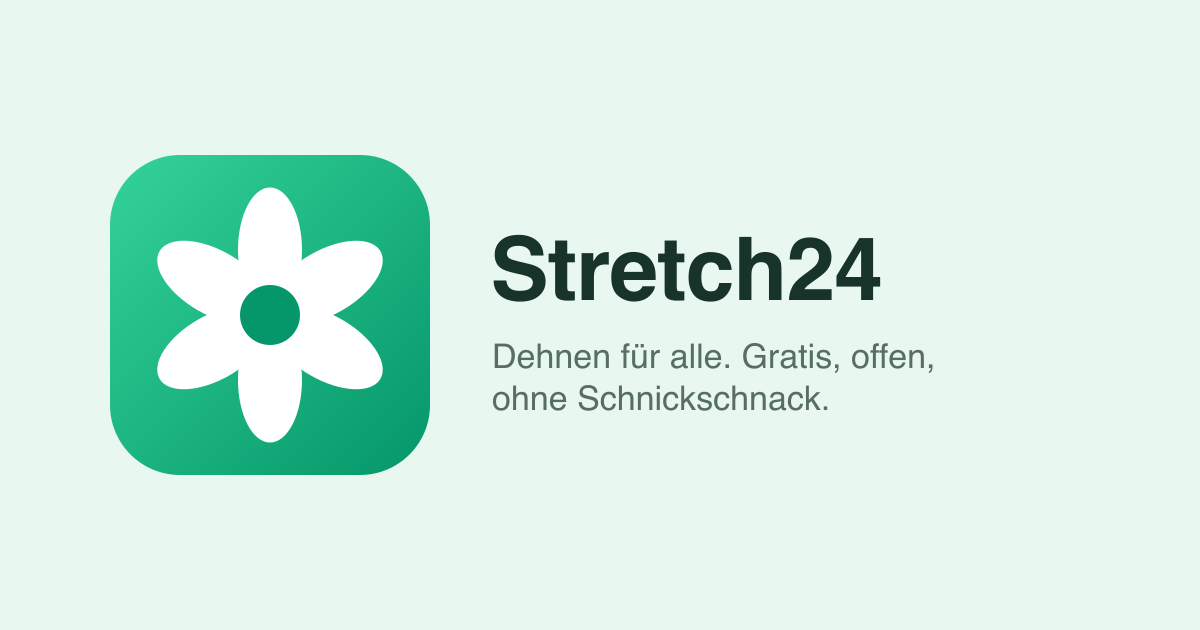
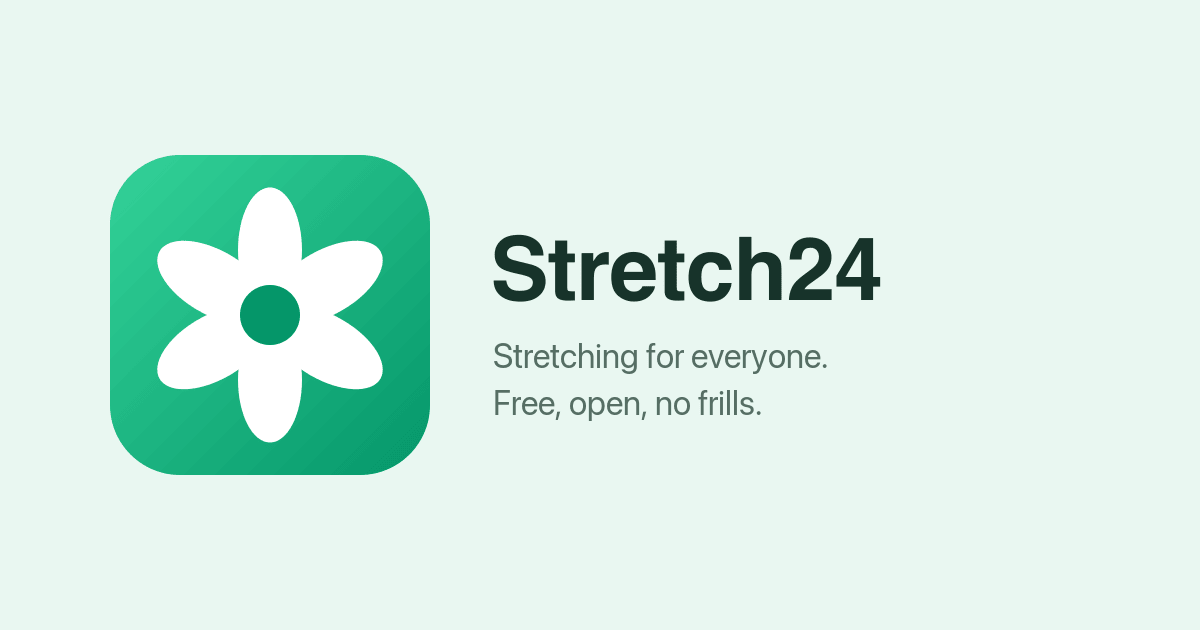
Switch static metadata and fallback language to English
- Meta tags, JSON-LD, manifest and markup fallbacks now ship in English,
  with og:locale:alternate for the five other languages
- DEFAULT_LANG is English, so unsupported browser languages land there
- Redraw the OG image tagline in English

Changed region(s): [[0.4008, 0.5429, 0.7708, 0.6635]]

diff --git a/index.html b/index.html
@@ -1,29 +1,37 @@
 <!DOCTYPE html>
-<html lang="de">
+<!-- Statisch steht hier Englisch: Crawler ohne JS sehen so die Fassung mit
+     der grössten Reichweite. Die App setzt Sprache, Titel und Description
+     beim Start passend zur Nutzersprache (assets/i18n.js). -->
+<html lang="en">
 <head>
   <meta charset="UTF-8">
   <meta name="viewport" content="width=device-width, initial-scale=1.0, viewport-fit=cover">
   <meta http-equiv="Content-Security-Policy" content="default-src 'self'; script-src 'self'; style-src 'self'; img-src 'self'; connect-src 'self'; base-uri 'none'; form-action 'none'; object-src 'none'">
   <meta name="referrer" content="no-referrer">
-  <meta name="description" content="Stretch24 – 24 geführte Dehnübungen, komplett gratis. Ohne Account, ohne Werbung, offline nutzbar.">
+  <meta name="description" content="Stretch24 – 24 guided stretching exercises, completely free. No account, no ads, works offline.">
   <meta name="color-scheme" content="light dark">
   <meta name="theme-color" media="(prefers-color-scheme: light)" content="#10b981">
   <meta name="theme-color" media="(prefers-color-scheme: dark)" content="#0d1614">
-  <title>Stretch24 · Dehnen für alle. Gratis.</title>
+  <title>Stretch24 · Stretching for everyone. Free.</title>
   <link rel="canonical" href="https://xenofex7.github.io/stretch24/">
-  <meta property="og:title" content="Stretch24 · Dehnen für alle. Gratis.">
-  <meta property="og:description" content="24 geführte Dehnübungen, komplett gratis. Ohne Account, ohne Werbung, offline nutzbar.">
+  <meta property="og:title" content="Stretch24 · Stretching for everyone. Free.">
+  <meta property="og:description" content="24 guided stretching exercises, completely free. No account, no ads, works offline.">
   <meta property="og:type" content="website">
   <meta property="og:url" content="https://xenofex7.github.io/stretch24/">
   <meta property="og:image" content="https://xenofex7.github.io/stretch24/assets/og-image.png">
   <meta property="og:image:width" content="1200">
   <meta property="og:image:height" content="630">
-  <meta property="og:image:alt" content="Stretch24-Logo mit Tagline: Dehnen für alle. Gratis, offen, ohne Schnickschnack.">
+  <meta property="og:image:alt" content="Stretch24 logo with tagline: Stretching for everyone. Free, open, no frills.">
   <meta property="og:site_name" content="Stretch24">
-  <meta property="og:locale" content="de_CH">
+  <meta property="og:locale" content="en_US">
+  <meta property="og:locale:alternate" content="de_CH">
+  <meta property="og:locale:alternate" content="fr_FR">
+  <meta property="og:locale:alternate" content="it_IT">
+  <meta property="og:locale:alternate" content="es_ES">
+  <meta property="og:locale:alternate" content="pt_PT">
   <meta name="twitter:card" content="summary_large_image">
-  <meta name="twitter:title" content="Stretch24 · Dehnen für alle. Gratis.">
-  <meta name="twitter:description" content="24 geführte Dehnübungen, komplett gratis. Ohne Account, ohne Werbung, offline nutzbar.">
+  <meta name="twitter:title" content="Stretch24 · Stretching for everyone. Free.">
+  <meta name="twitter:description" content="24 guided stretching exercises, completely free. No account, no ads, works offline.">
   <meta name="twitter:image" content="https://xenofex7.github.io/stretch24/assets/og-image.png">
   <meta name="mobile-web-app-capable" content="yes">
   <meta name="apple-mobile-web-app-capable" content="yes">
@@ -39,7 +47,7 @@
     "@type": "WebApplication",
     "name": "Stretch24",
     "url": "https://xenofex7.github.io/stretch24/",
-    "description": "24 geführte Dehnübungen, komplett gratis. Ohne Account, ohne Werbung, offline nutzbar.",
+    "description": "24 guided stretching exercises, completely free. No account, no ads, works offline.",
     "applicationCategory": "HealthApplication",
     "operatingSystem": "Any",
     "inLanguage": ["de", "en", "fr", "it", "es", "pt"],
@@ -50,12 +58,12 @@
 </head>
 <body>
 
-  <a class="skip-link" href="#main" data-i18n="skip">Zum Inhalt springen</a>
+  <a class="skip-link" href="#main" data-i18n="skip">Skip to content</a>
 
   <main id="main">
 
     <!-- ===== Home ===== -->
-    <section id="view-home" class="view active" tabindex="-1" data-i18n-aria="homeAria" aria-label="Übersicht">
+    <section id="view-home" class="view active" tabindex="-1" data-i18n-aria="homeAria" aria-label="Overview">
       <header class="hero">
         <div class="hero-inner">
           <div class="logo-row">
@@ -72,7 +80,7 @@
               <circle cx="32" cy="32" r="6" fill="var(--surface)"/>
             </svg>
             <h1>Stretch<span class="accent">24</span></h1>
-            <select class="lang-select" id="lang-select" data-i18n-aria="langLabel" aria-label="Sprache">
+            <select class="lang-select" id="lang-select" data-i18n-aria="langLabel" aria-label="Language">
               <option value="de">Deutsch</option>
               <option value="en">English</option>
               <option value="fr">Français</option>
@@ -81,7 +89,7 @@
               <option value="pt">Português</option>
             </select>
           </div>
-          <p class="tagline" data-i18n="tagline">Dehnen für alle. Gratis, offen, ohne Schnickschnack.</p>
+          <p class="tagline" data-i18n="tagline">Stretching for everyone. Free, open, no frills.</p>
           <div class="streak-bar" id="streak-bar" hidden>
             <span id="streak-flame"></span>
             <span id="streak-text"></span>
@@ -90,47 +98,47 @@
       </header>
 
       <section class="section">
-        <h2 data-i18n="routines">Routinen</h2>
+        <h2 data-i18n="routines">Routines</h2>
         <div id="routine-list" class="card-grid"></div>
       </section>
 
       <section class="section">
         <div class="section-head">
-          <h2 data-i18n="customRoutines">Eigene Routinen</h2>
-          <button class="btn btn-ghost btn-with-icon" id="btn-new-routine"><span data-i18n="newRoutine">Neu</span></button>
+          <h2 data-i18n="customRoutines">Your routines</h2>
+          <button class="btn btn-ghost btn-with-icon" id="btn-new-routine"><span data-i18n="newRoutine">New</span></button>
         </div>
         <div id="custom-routine-list" class="card-grid"></div>
-        <p id="custom-empty" class="muted" data-i18n="customEmpty" data-i18n-n="24">Noch keine eigene Routine. Stell dir eine aus den 24 Übungen zusammen!</p>
+        <p id="custom-empty" class="muted" data-i18n="customEmpty" data-i18n-n="24">No routine of your own yet. Build one from the 24 exercises!</p>
       </section>
 
       <section class="section">
-        <h2 data-i18n="allExercises" data-i18n-n="24">Alle 24 Übungen</h2>
+        <h2 data-i18n="allExercises" data-i18n-n="24">All 24 exercises</h2>
         <div id="exercise-list" class="exercise-grid"></div>
       </section>
 
       <footer class="footer">
-        <p data-i18n="footerFree">Stretch24 ist frei &amp; Open Source (MIT). Kein Account, keine Werbung, keine Datensammlung, dein Fortschritt bleibt auf deinem Gerät.</p>
-        <p class="muted" data-i18n="footerMedical">Kein Ersatz für medizinischen Rat. Dehne nur bis zu einem angenehmen Zug, nie in den Schmerz.</p>
-        <p class="muted"><span data-i18n="footerAi">Illustrationen KI-generiert.</span> <a href="https://github.com/xenofex7/stretch24" data-i18n="footerSource">Quellcode, Kontakt &amp; Feedback auf GitHub</a>.</p>
+        <p data-i18n="footerFree">Stretch24 is free and open source (MIT). No account, no ads, no data collection, your progress stays on your device.</p>
+        <p class="muted" data-i18n="footerMedical">Not a substitute for medical advice. Only stretch to a comfortable pull, never into pain.</p>
+        <p class="muted"><span data-i18n="footerAi">Illustrations are AI generated.</span> <a href="https://github.com/xenofex7/stretch24" data-i18n="footerSource">Source code, contact and feedback on GitHub</a>.</p>
         <details class="privacy">
-          <summary data-i18n="privacy">Datenschutz</summary>
+          <summary data-i18n="privacy">Privacy</summary>
           <ul>
-            <li data-i18n="privacyLocal">Alle Nutzungsdaten (eigene Routinen, Streak, Statistik, Ton-Einstellung) bleiben als localStorage in deinem Browser und werden nie übertragen. Zum Löschen genügt es, die Browserdaten dieser Seite zu entfernen.</li>
-            <li data-i18n="privacyNoTracking">Kein Tracking, keine Cookies, keine Werbung, keine Accounts, keine externen Dienste.</li>
-            <li><span data-i18n="privacyHosting">Gehostet auf GitHub Pages (GitHub Inc., USA). GitHub protokolliert beim Abruf technisch bedingt IP-Adresse und Browserkennung, siehe</span> <a href="https://docs.github.com/site-policy/privacy-policies/github-general-privacy-statement" data-i18n="privacyHostingLink">GitHub Privacy Statement</a>.</li>
-            <li><span data-i18n="privacyContact">Fragen oder Auskunft:</span> <a href="https://github.com/xenofex7/stretch24/issues" data-i18n="privacyContactLink">GitHub Issues</a>.</li>
+            <li data-i18n="privacyLocal">All usage data (your routines, streak, stats, sound setting) stays in your browser as localStorage and is never transmitted. To delete it, simply clear this site’s browser data.</li>
+            <li data-i18n="privacyNoTracking">No tracking, no cookies, no ads, no accounts, no external services.</li>
+            <li><span data-i18n="privacyHosting">Hosted on GitHub Pages (GitHub Inc., USA). For technical reasons GitHub logs your IP address and browser identifier when the page is loaded, see</span> <a href="https://docs.github.com/site-policy/privacy-policies/github-general-privacy-statement" data-i18n="privacyHostingLink">GitHub Privacy Statement</a>.</li>
+            <li><span data-i18n="privacyContact">Questions or requests:</span> <a href="https://github.com/xenofex7/stretch24/issues" data-i18n="privacyContactLink">GitHub Issues</a>.</li>
           </ul>
         </details>
       </footer>
     </section>
 
     <!-- ===== Player ===== -->
-    <section id="view-player" class="view" tabindex="-1" data-i18n-aria="playerAria" aria-label="Übungs-Player">
+    <section id="view-player" class="view" tabindex="-1" data-i18n-aria="playerAria" aria-label="Exercise player">
       <div class="player">
         <div class="player-top">
-          <button class="btn btn-ghost" id="btn-quit" data-i18n-aria="quit" aria-label="Beenden"></button>
+          <button class="btn btn-ghost" id="btn-quit" data-i18n-aria="quit" aria-label="Quit"></button>
           <div class="player-progress" id="player-progress"></div>
-          <button class="btn btn-ghost" id="btn-sound" data-i18n-aria="soundToggle" aria-label="Ton an/aus"></button>
+          <button class="btn btn-ghost" id="btn-sound" data-i18n-aria="soundToggle" aria-label="Sound on/off"></button>
         </div>
 
         <div class="player-stage">
@@ -140,7 +148,7 @@
               <circle class="ring-fg" id="ring-fg" cx="130" cy="130" r="120"/>
             </svg>
             <div class="pose" id="pose-figure"></div>
-            <div class="countdown" id="countdown" role="timer" data-i18n-aria="countdownAria" aria-label="Verbleibende Sekunden">0</div>
+            <div class="countdown" id="countdown" role="timer" data-i18n-aria="countdownAria" aria-label="Seconds remaining">0</div>
           </div>
           <div class="side-badge" id="side-badge" hidden></div>
           <h1 class="player-title" id="player-title">…</h1>
@@ -149,45 +157,45 @@
         </div>
 
         <div class="player-controls">
-          <button class="btn btn-round" id="btn-prev" data-i18n-aria="prev" aria-label="Zurück"></button>
+          <button class="btn btn-round" id="btn-prev" data-i18n-aria="prev" aria-label="Previous"></button>
           <button class="btn btn-round btn-big" id="btn-pause" data-i18n-aria="pause" aria-label="Pause"></button>
-          <button class="btn btn-round" id="btn-next" data-i18n-aria="next" aria-label="Weiter"></button>
+          <button class="btn btn-round" id="btn-next" data-i18n-aria="next" aria-label="Next"></button>
         </div>
         <p class="player-next muted" id="player-next"></p>
       </div>
     </section>
 
     <!-- ===== Fertig ===== -->
-    <section id="view-done" class="view" tabindex="-1" data-i18n-aria="doneAria" aria-label="Session abgeschlossen">
+    <section id="view-done" class="view" tabindex="-1" data-i18n-aria="doneAria" aria-label="Session complete">
       <div class="done-screen">
         <div class="done-icon" id="done-icon"></div>
-        <h1 data-i18n="doneTitle">Geschafft!</h1>
+        <h1 data-i18n="doneTitle">Done!</h1>
         <p id="done-summary"></p>
         <p id="done-streak" class="done-streak"></p>
-        <button class="btn btn-primary" id="btn-done-home" data-i18n="doneBack">Zurück zur Übersicht</button>
+        <button class="btn btn-primary" id="btn-done-home" data-i18n="doneBack">Back to overview</button>
       </div>
     </section>
 
     <!-- ===== Routinen-Builder ===== -->
-    <section id="view-builder" class="view" tabindex="-1" data-i18n-aria="builderAria" aria-label="Eigene Routine erstellen">
+    <section id="view-builder" class="view" tabindex="-1" data-i18n-aria="builderAria" aria-label="Create your own routine">
       <div class="builder">
         <div class="builder-head">
-          <button class="btn btn-ghost btn-with-icon" id="btn-builder-back"><span data-i18n="builderBack">Zurück</span></button>
-          <h1 data-i18n="builderTitle">Eigene Routine</h1>
+          <button class="btn btn-ghost btn-with-icon" id="btn-builder-back"><span data-i18n="builderBack">Back</span></button>
+          <h1 data-i18n="builderTitle">Your routine</h1>
         </div>
         <label class="field">
           <span data-i18n="builderName">Name</span>
-          <input type="text" id="builder-name" maxlength="40" data-i18n-placeholder="builderNamePlaceholder" placeholder="z. B. Meine Abendroutine">
+          <input type="text" id="builder-name" maxlength="40" data-i18n-placeholder="builderNamePlaceholder" placeholder="e.g. My evening routine">
         </label>
         <label class="field">
-          <span><span data-i18n="builderSecs">Sekunden pro Übung:</span> <strong id="builder-secs-label">30</strong></span>
+          <span><span data-i18n="builderSecs">Seconds per exercise:</span> <strong id="builder-secs-label">30</strong></span>
           <input type="range" id="builder-secs" min="15" max="90" step="5" value="30">
         </label>
-        <p class="muted" data-i18n="builderHint">Übungen antippen zum Auswählen, die Reihenfolge entspricht deiner Auswahl.</p>
+        <p class="muted" data-i18n="builderHint">Tap exercises to select them, the order follows your selection.</p>
         <div id="builder-exercises" class="exercise-grid selectable"></div>
         <div class="builder-foot">
           <span id="builder-summary" class="muted"></span>
-          <button class="btn btn-primary" id="btn-builder-save" data-i18n="builderSave" disabled>Speichern</button>
+          <button class="btn btn-primary" id="btn-builder-save" data-i18n="builderSave" disabled>Save</button>
         </div>
       </div>
     </section>
@@ -200,8 +208,8 @@
     <h2 id="dialog-title"></h2>
     <p id="dialog-desc"></p>
     <div class="dialog-actions">
-      <button class="btn btn-ghost" id="dialog-close" data-i18n="dialogClose">Schliessen</button>
-      <button class="btn btn-primary" id="dialog-try">60 s ausprobieren</button>
+      <button class="btn btn-ghost" id="dialog-close" data-i18n="dialogClose">Close</button>
+      <button class="btn btn-primary" id="dialog-try">Try for 60 s</button>
     </div>
   </dialog>
 

diff --git a/assets/app.js b/assets/app.js
@@ -27,7 +27,9 @@
    * Reihenfolge: gespeicherte Wahl, dann Browser-Sprachen, sonst Deutsch.
    * Texte kommen aus assets/i18n.js, die Übungs-IDs verbinden beides. */
   const LANG_CODES = LANGS.map((l) => l.code);
-  const DEFAULT_LANG = 'de';
+  /* Englisch als Fallback: deckt die meisten Besucher ab, deren Browser-
+   * sprache wir nicht anbieten, und passt zum statischen Stand in index.html. */
+  const DEFAULT_LANG = 'en';
 
   function detectLang() {
     const saved = store.get('lang', null);

diff --git a/sw.js b/sw.js
@@ -1,7 +1,7 @@
 /* Stretch24 Service Worker – Cache-first, damit die App offline läuft */
 
 /* App-Shell: Version bei jeder Änderung an App-Dateien erhöhen. */
-const CACHE = 'stretch24-v19';
+const CACHE = 'stretch24-v20';
 
 /* Illustrationen liegen in einem eigenen Cache, der App-Updates überlebt -
  * sonst würde jeder Versions-Bump die komplette Bildstrecke erneut laden.
